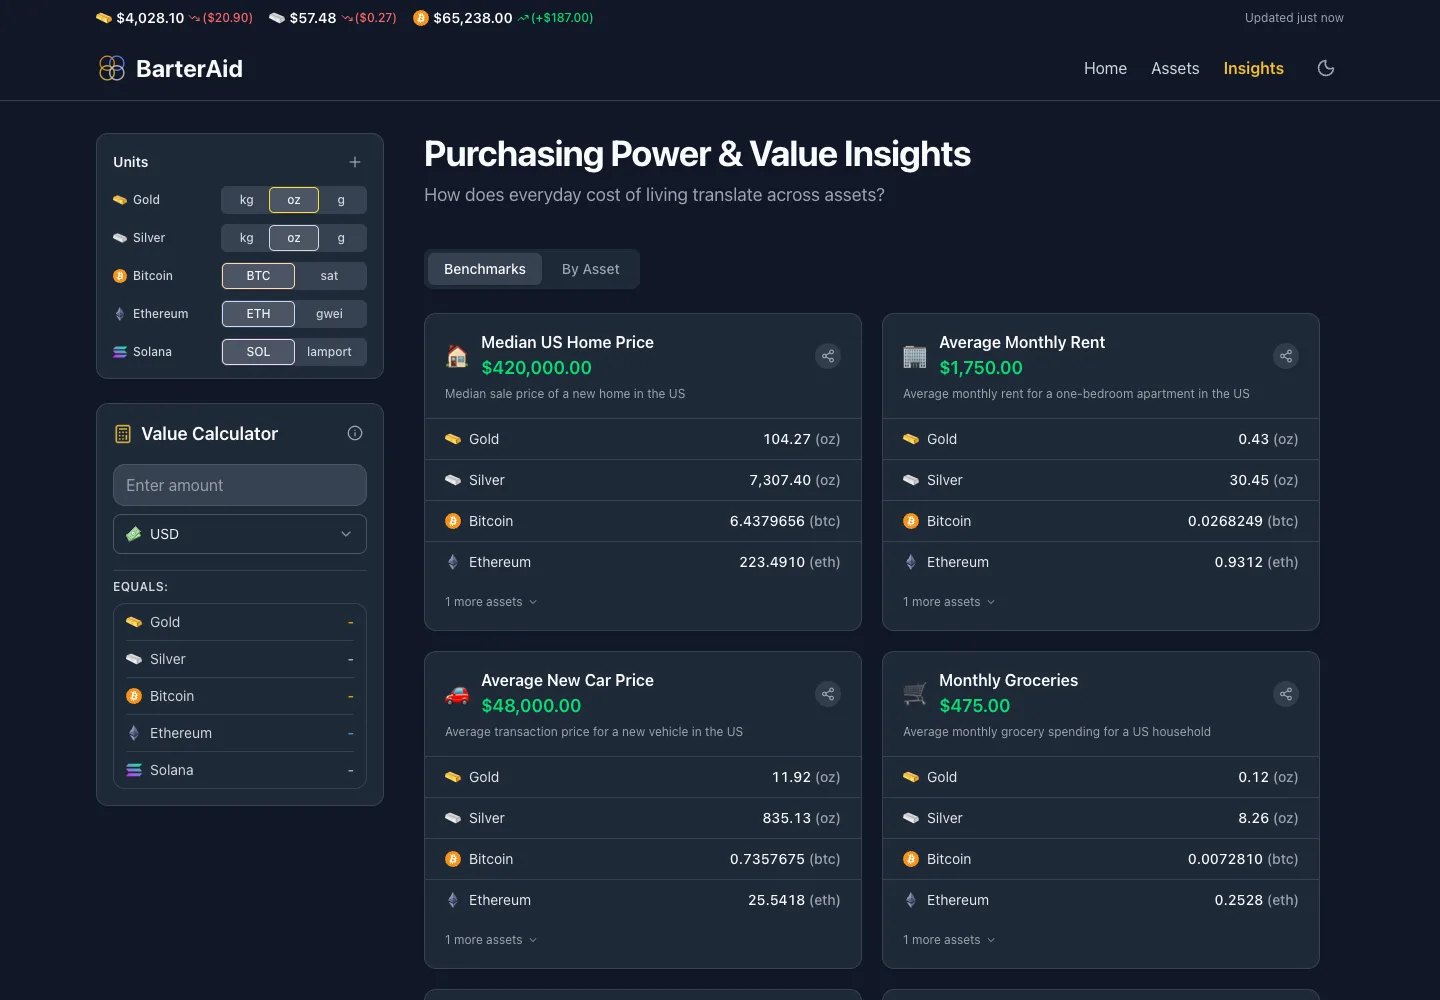
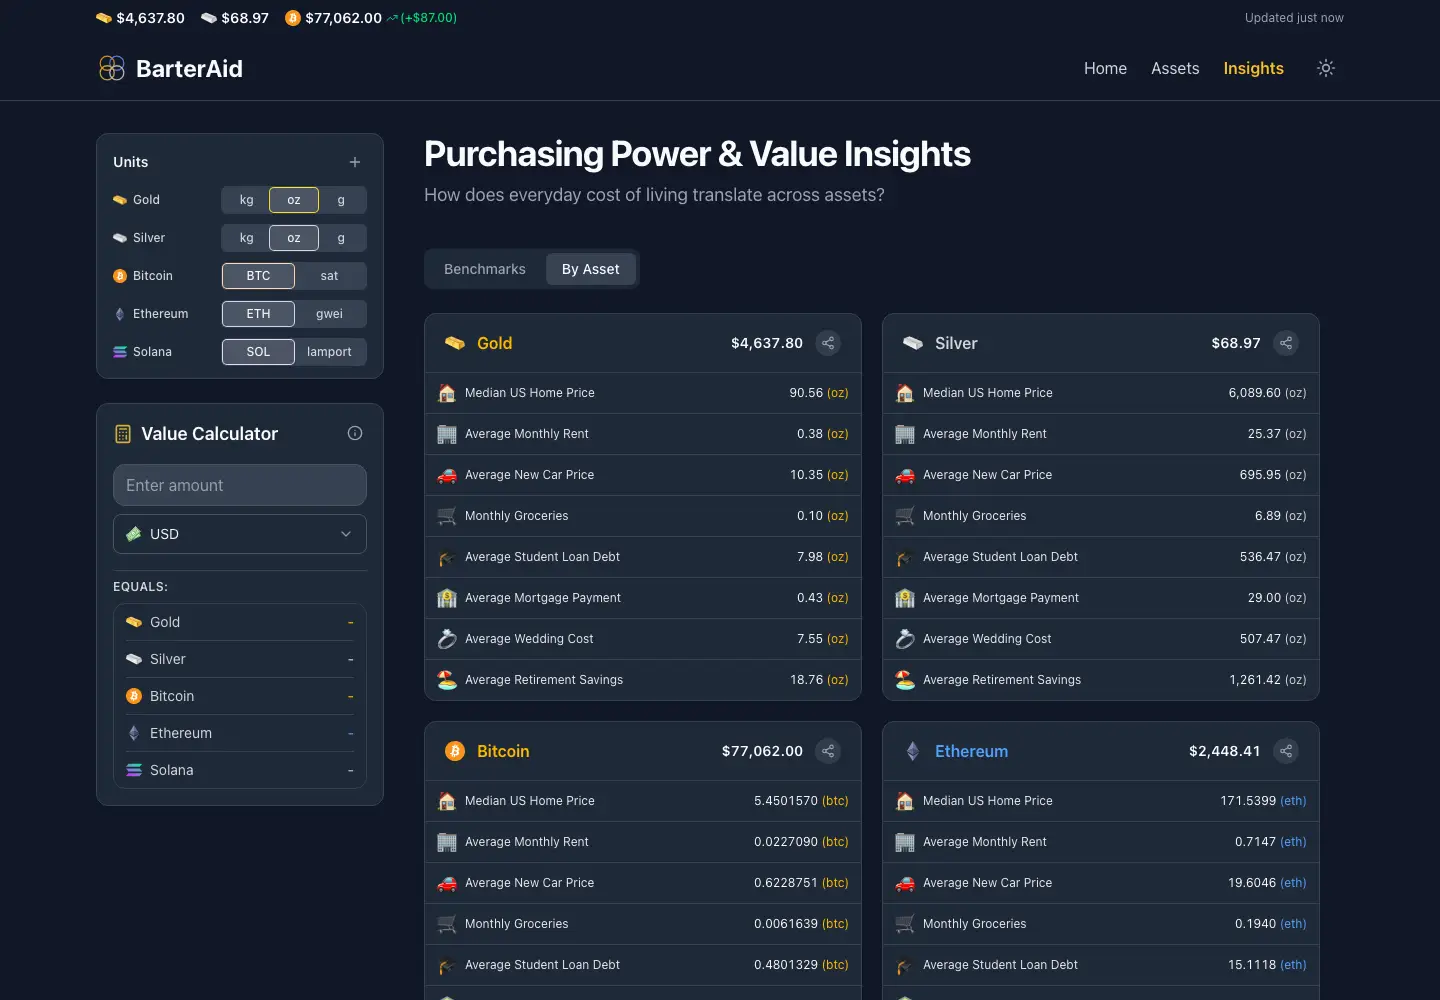
Update BarterAid engineering screenshot

diff --git a/projects/barteraid.html b/projects/barteraid.html
@@ -145,8 +145,8 @@
             </article>
           </div>
           <figure class="engineering-media">
-            <img src="../assets/projects/barteraid/insights-dark.webp" width="1440" height="1000" alt="Dark-mode BarterAid insights page showing purchasing-power comparisons across several assets" loading="lazy" decoding="async">
-            <figcaption>The same pricing foundation remains consistent across product experiences.</figcaption>
+            <img src="../assets/projects/barteraid/insights-dark.webp" width="1440" height="1000" alt="Dark-mode BarterAid Insights page showing purchasing-power benchmarks organized by asset" loading="lazy" decoding="async">
+            <figcaption>Purchasing-power benchmarks reuse the same normalized pricing model across every selected asset.</figcaption>
           </figure>
         </div>
       </div>
